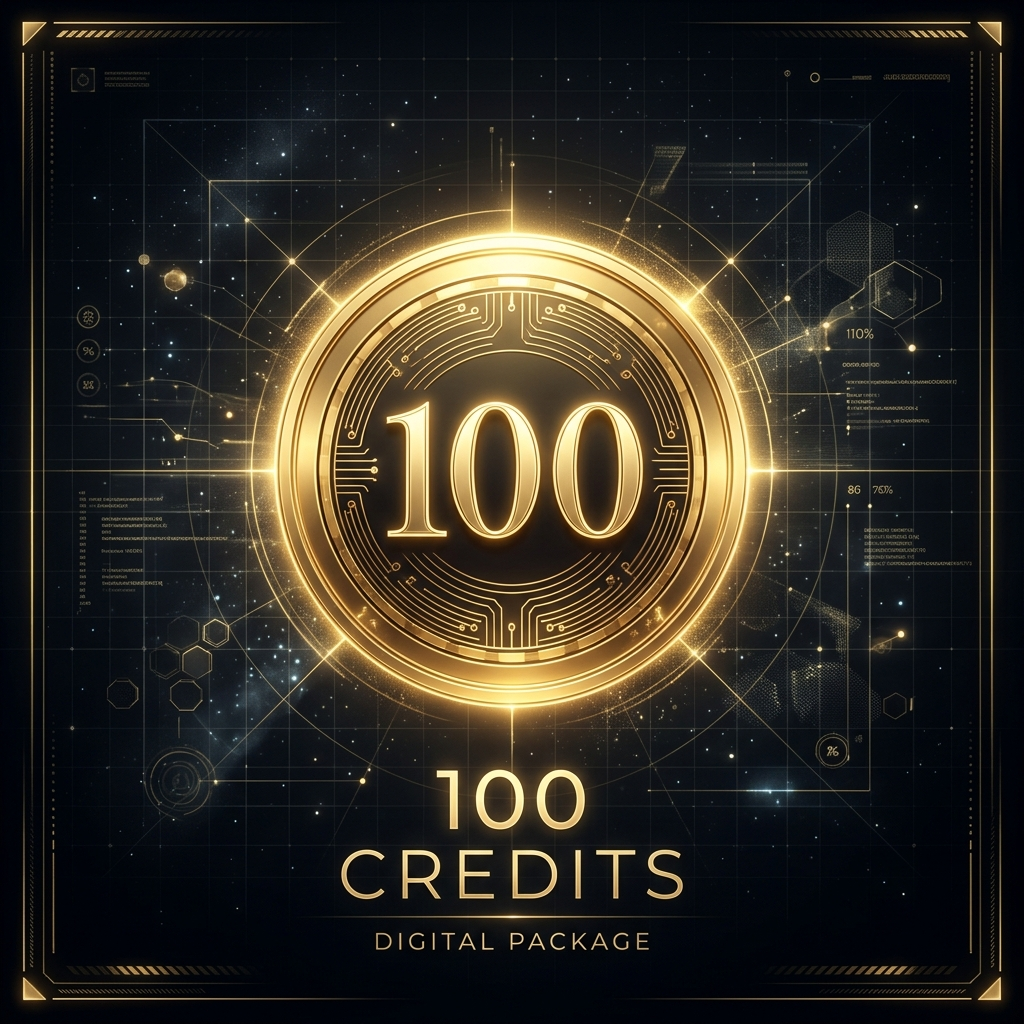
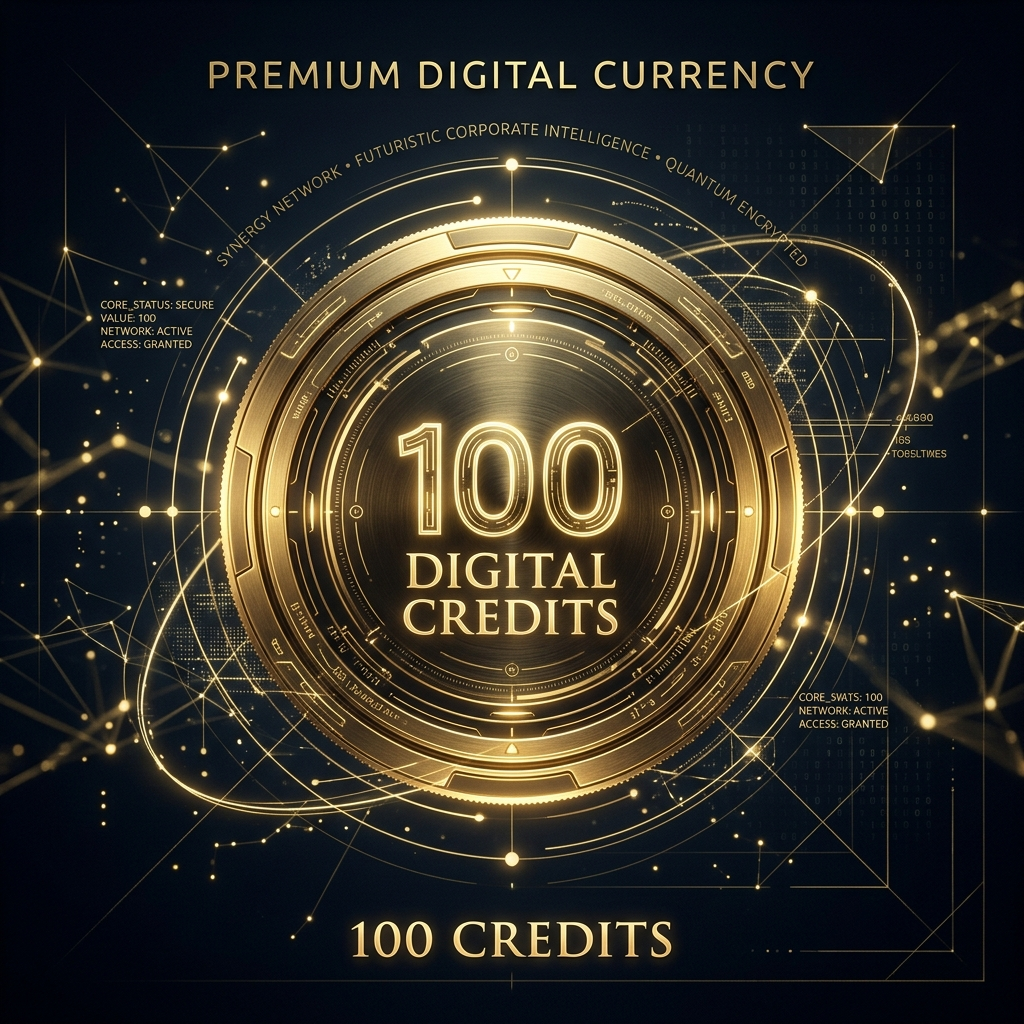
style: fix credit images aspect ratio, remove zoom, and unify gold style

diff --git a/src/app/(protected)/dashboard/billing/page.tsx b/src/app/(protected)/dashboard/billing/page.tsx
@@ -163,16 +163,13 @@ export default function BillingPage() {
 
               {/* Package Cover Image Mockup */}
               <div 
-                onClick={() => setZoomedImage(pkg.image)}
-                className="w-full aspect-[4/3] mb-6 border border-obsidian bg-void relative rounded-sm overflow-hidden shadow-xl group/img hover:border-gold/20 transition-all duration-500 cursor-zoom-in"
-                title="Büyütmek için tıklayın"
+                className="w-full mb-6 border border-obsidian bg-void relative rounded-sm overflow-hidden shadow-xl"
               >
                 <img 
                   src={pkg.image} 
                   alt={pkg.title}
-                  className="w-full h-full object-cover grayscale opacity-90 group-hover:grayscale-0 group-hover:opacity-100 transition-all duration-700"
+                  className="w-full h-auto object-contain block transition-transform duration-700"
                 />
-                <div className="absolute inset-0 bg-gradient-to-t from-void/60 via-transparent to-transparent pointer-events-none" />
               </div>
               
               <div className="mb-6 flex justify-between items-baseline">